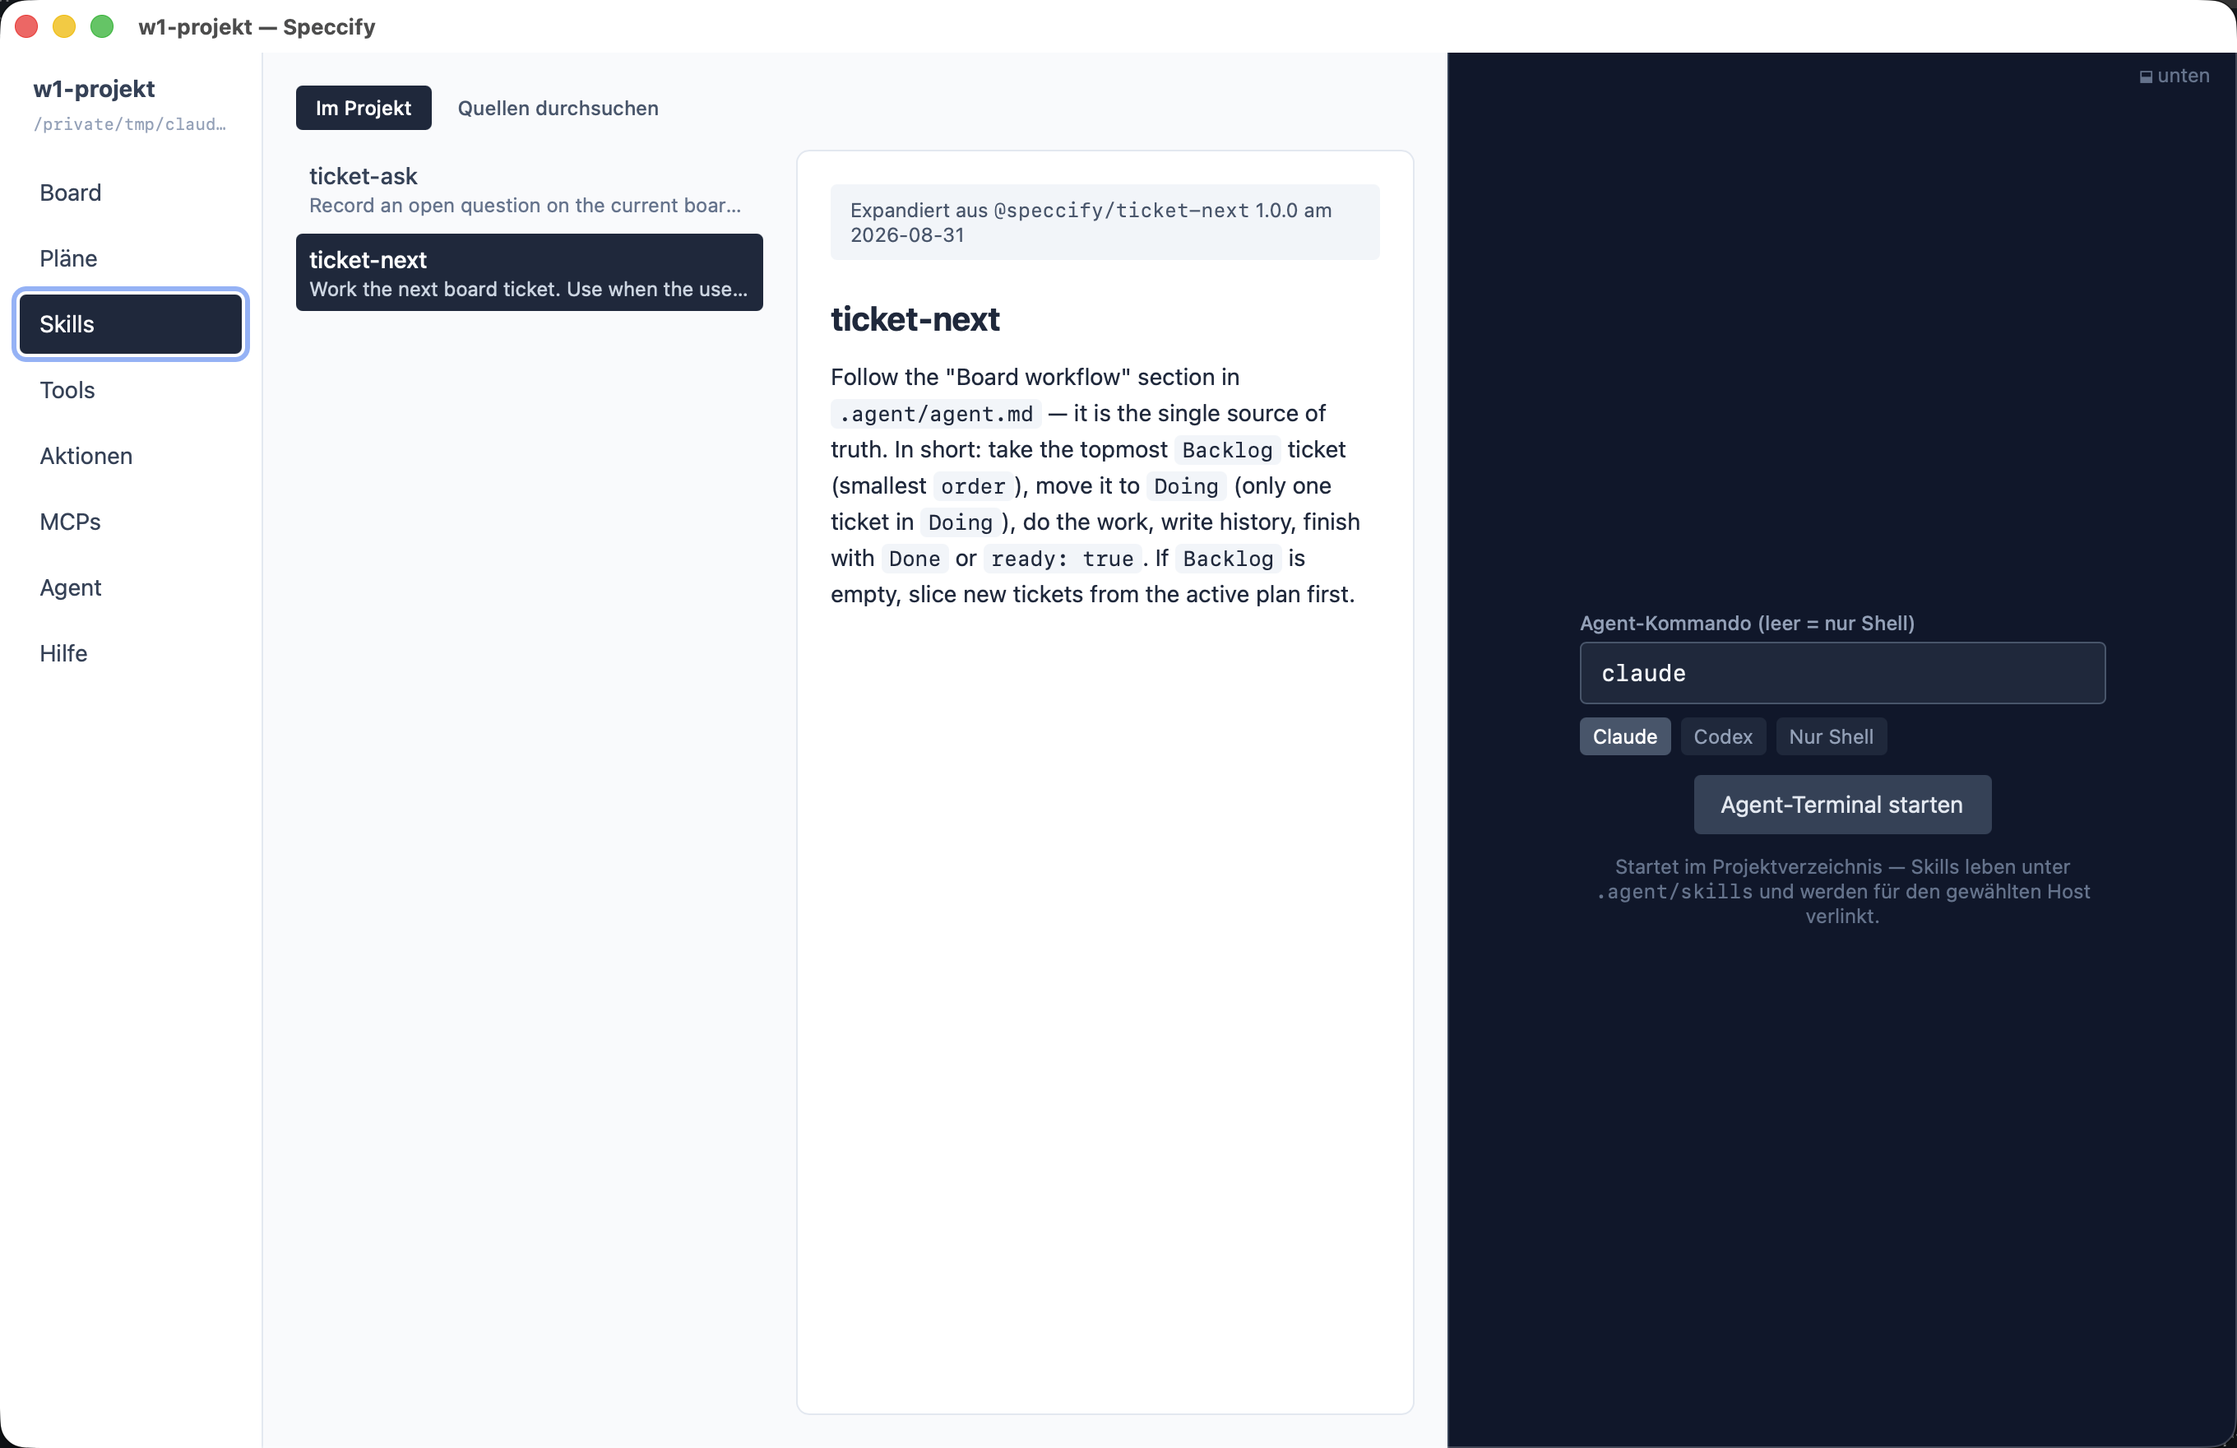
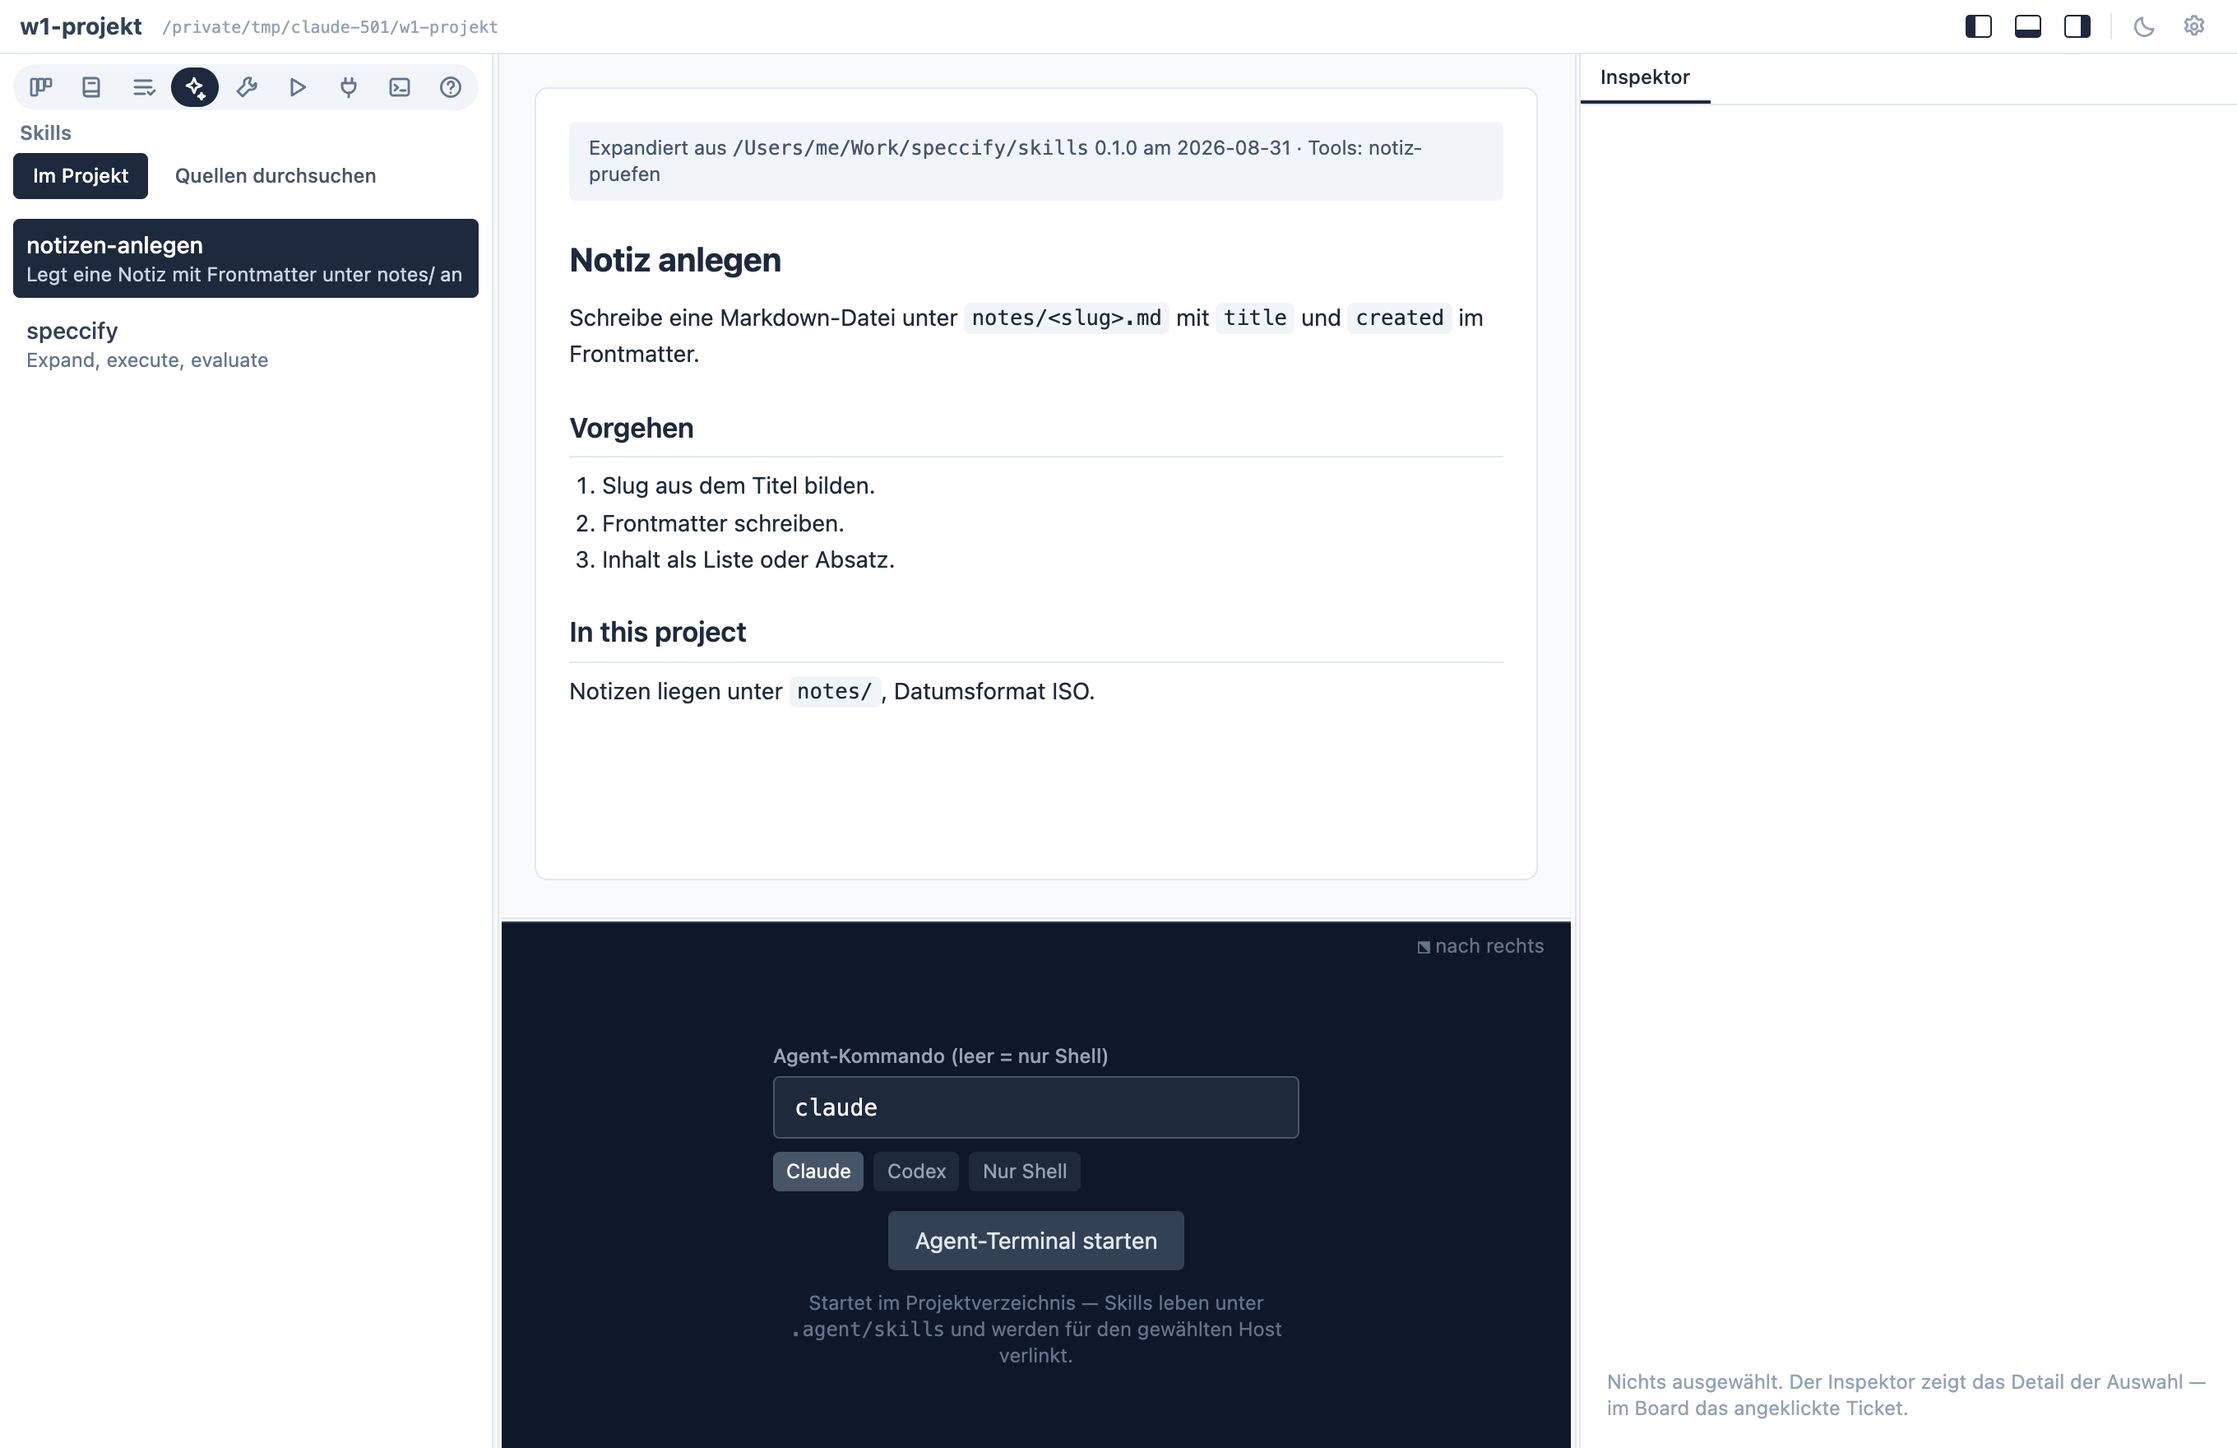
chore(release): version 0.4.0 — website-screenshots im neuen layout
- Version 0.4.0 (package.json, tauri.conf.json, Cargo.toml, Cargo.lock)
- Die fünf App-Screenshots der Website neu aufgenommen: Navigator mit
  Icon-Tabs, Board mit Ticket im Inspektor, offene Frage im Inspektor,
  Inspektor-Ausschnitt, Skills, Aktionen — aus dev/mock.html mit dem
  nachgebauten W1-Fixture per Playwright (1360×880 @2x wie bisher)
- Bildunterschriften der Overview (EN/DE) und der Dashboard-Text
  „Projekt öffnen" beschreiben das neue Layout

Verifikation: typecheck grün; cargo check ok; Marketing-Build 86 Seiten.

Claude-Session: https://claude.ai/code/session_01DxajptpLM2N9ChsPNwWVBX

diff --git a/apps/desktop/dev/mock.html b/apps/desktop/dev/mock.html
@@ -4,65 +4,117 @@
     <meta charset="UTF-8" />
     <title>Speccify — Layout-Attrappe</title>
     <script>
-      // Attrappe der Tauri-Brücke für eine Layout-Prüfung im Browser
-      // (nicht Teil des Produkts; wird nach der Prüfung gelöscht).
-      const project = "/Users/me/Projekte/demo";
+      // Attrappe der Tauri-Brücke für Layout-Prüfungen und Website-
+      // Screenshots im Browser (Playwright gegen den Vite-Dev-Server,
+      // http://localhost:1420/dev/mock.html). Kein Produktbestandteil.
+      // Die Daten spiegeln das W1-Fixture-Projekt der E2E-Läufe.
+      const project = "/private/tmp/claude-501/w1-projekt";
       const base = {
-        file: ".agent/board/site-scaffold.md",
-        id: "site-scaffold",
-        title: "Scaffold the site",
-        station: "Doing",
         assignee: null,
-        created: "2026-08-26T08:25:00Z",
+        created: "2026-08-31T09:00:00Z",
         ready: false,
         needs_human: false,
-        order: 1,
-        plan: "projektfenster",
+        order: null,
+        plan: "aufraeumen",
         open_question: null,
-        body: "## Scope\nSmall enough for one agent run.\n\n## Acceptance criteria\nDone when the site builds.",
       };
       const tickets = [
-        base,
-        { ...base, file: ".agent/board/second.md", id: "second", title: "Second ticket", station: "Backlog", order: 2, open_question: "Q1" },
-        { ...base, file: ".agent/board/done-1.md", id: "done-1", title: "Done thing", station: "Done" },
+        {
+          ...base,
+          file: ".agent/board/notizen-zahlen.md",
+          id: "notizen-zahlen",
+          title: "notes/zahlen.md mit Quadratzahlen 1–5 anlegen",
+          station: "Doing",
+          order: 1,
+          body: "## Scope\nEine Notiz `notes/zahlen.md` mit den Quadratzahlen 1–5 als Liste.\n\n## Akzeptanz\nDatei existiert, fünf Zeilen, Zahlen stimmen.",
+        },
+        {
+          ...base,
+          file: ".agent/board/live-test.md",
+          id: "live-test",
+          title: "Live-Reload Beweisticket",
+          station: "Doing",
+          order: 2,
+          open_question: "Q1",
+          body: "Vom Watcher entdeckt, nicht von einem Klick.",
+        },
+        {
+          ...base,
+          file: ".agent/board/notizen-ordner.md",
+          id: "notizen-ordner",
+          title: "Ordner notes/ anlegen",
+          station: "Done",
+          plan: "notizen",
+          body: "Erledigt.",
+        },
       ];
+      const questions = {
+        ".agent/board/live-test.md": [
+          {
+            number: 1,
+            open: true,
+            asked_at: "2026-08-31T11:40:00Z",
+            text: "Soll der Beweis-Text auf Deutsch oder Englisch erscheinen?",
+            answer: null,
+            answered_at: null,
+          },
+        ],
+      };
+      const history = {
+        ".agent/board/notizen-zahlen.md": [
+          { timestamp: "2026-08-31T11:52:10Z", ticket_id: "notizen-zahlen", event_type: "agent_run", actor: "agent", summary: "Skill notizen-anlegen ausgeführt", tokens_in: 30000, tokens_out: 1500 },
+          { timestamp: "2026-08-31T11:50:02Z", ticket_id: "notizen-zahlen", event_type: "station_changed", actor: "agent", summary: "Backlog -> In Progress" },
+          { timestamp: "2026-08-31T11:49:30Z", ticket_id: "notizen-zahlen", event_type: "ticket_created", actor: "agent", summary: "aus Plan aufraeumen geschnitten" },
+        ],
+        ".agent/board/live-test.md": [
+          { timestamp: "2026-08-31T11:52:00Z", ticket_id: "live-test", event_type: "ticket_edited", actor: "user", summary: "Im Editor gespeichert" },
+        ],
+      };
+      const files = {
+        ".agent/plans/aufraeumen.md": "---\nlifecycle: active\nstatus: läuft — Tickets geschnitten\n---\n# Plan: Aufräumen\n\nNotizen sortieren und Altes löschen.\n\n## Schritte\n\n1. `notes/` anlegen\n2. Zahlen-Notiz schreiben\n3. Alte Entwürfe löschen\n",
+        ".agent/plans/archive/notizen.md": "---\nlifecycle: done\n---\n# Notizen\n\nErster Durchlauf.\n",
+        ".agent/playbooks/release.md": "---\ndescription: Vom Tag zum veröffentlichten Release\n---\n# Release\n\n1. Version anheben, committen.\n2. Tag pushen — der Release-Workflow baut beide Plattformen.\n3. Entwurf prüfen, veröffentlichen.\n",
+        ".agent/skills/notizen-anlegen/SKILL.md": "---\nname: notizen-anlegen\ndescription: Legt eine Notiz mit Frontmatter unter notes/ an\n---\n# Notiz anlegen\n\nSchreibe eine Markdown-Datei unter `notes/<slug>.md` mit `title` und `created` im Frontmatter.\n\n## Vorgehen\n\n1. Slug aus dem Titel bilden.\n2. Frontmatter schreiben.\n3. Inhalt als Liste oder Absatz.\n\n## In this project\n\nNotizen liegen unter `notes/`, Datumsformat ISO.\n",
+        ".agent/skills/speccify/SKILL.md": "---\nname: speccify\n---\n# Speccify\n\nExpand → Execute → Evaluate.\n",
+        ".agent/tools/notiz-pruefen/TOOL.md": "---\nname: notiz-pruefen\n---\n# notiz-pruefen\n\nPrüft eine Notiz auf gültiges Frontmatter.\n\n## Inputs\n\n`path` (string)\n\n## Outputs\n\n`ok` (boolean)\n",
+        "CLAUDE.md": "# Speccify agent guidance\n\n@.agent/agent.md\n",
+        ".agent/agent.md": "# w1-projekt\n\nSprache Deutsch. Board-Workflow nach Speccify.\n",
+      };
       const responses = {
         project_current: () => project,
         project_watch_start: () => null,
         project_watch_stop: () => null,
         project_workflow_status: () => ({ state: "current", installed_version: 1, current_version: 1, pending: [] }),
         project_board: () => tickets,
-        project_board_kpis: () => ({ run_count: 3, tokens_in: 12000, tokens_out: 3000, duration_ms: 120000, recent: [] }),
-        project_ticket_history: () => [
-          { timestamp: "2026-09-03T09:05:30Z", ticket_id: "site-scaffold", event_type: "station_changed", actor: "agent", summary: "Backlog -> In Progress" },
-          { timestamp: "2026-09-03T08:55:00Z", ticket_id: "site-scaffold", event_type: "ticket_created", actor: "agent", summary: "angelegt" },
-        ],
-        project_ticket_questions: () => [],
+        project_board_kpis: () => ({ run_count: 1, tokens_in: 30000, tokens_out: 1500, duration_ms: 120000, recent: [] }),
+        project_ticket_history: ({ file }) => history[file] ?? [],
+        project_ticket_questions: ({ file }) => questions[file] ?? [],
+        project_ticket_answer: () => null,
         project_plans: () => [
-          { file: ".agent/plans/projektfenster.md", title: "Projektfenster", lifecycle: "active", status: "Bauen", escalation: null, archived: false },
+          { file: ".agent/plans/aufraeumen.md", title: "Plan: Aufräumen", lifecycle: "active", status: "läuft — Tickets geschnitten", escalation: null, archived: false },
+          { file: ".agent/plans/archive/notizen.md", title: "Notizen", lifecycle: "done", status: null, escalation: null, archived: true },
         ],
-        project_read_file: () => "---\nlifecycle: active\nstatus: Bauen\n---\n# Projektfenster\n\nEin Plan.\n",
+        project_read_file: ({ file }) => files[file] ?? `# ${file}\n\n(leer)\n`,
         project_playbooks: () => [
           { file: ".agent/playbooks/release.md", title: "Release", description: "Vom Tag zum veröffentlichten Release" },
-          { file: ".agent/playbooks/deploy.md", title: "Deploy", description: null },
         ],
         project_skills: () => [
-          { name: "speccify", file: ".agent/skills/speccify/SKILL.md", description: "Expand, execute, evaluate", origin: { source: "github.com/x/skills", version: "0.2.0", expanded: "2026-09-01", tools: [] } },
-          { name: "release-notes", file: ".agent/skills/release-notes/SKILL.md", description: null, origin: null },
+          { name: "notizen-anlegen", file: ".agent/skills/notizen-anlegen/SKILL.md", description: "Legt eine Notiz mit Frontmatter unter notes/ an", origin: { source: "/Users/me/Work/speccify/skills", version: "0.1.0", expanded: "2026-08-31", tools: ["notiz-pruefen"] } },
+          { name: "speccify", file: ".agent/skills/speccify/SKILL.md", description: "Expand, execute, evaluate", origin: { source: "/Users/me/Work/speccify/skills", version: "0.2.0", expanded: "2026-08-31", tools: [] } },
         ],
         project_tools: () => [
-          { name: "notarize", file: ".agent/tools/notarize/TOOL.md", description: "Notarize a dmg", from: ["speccify"], platforms: [{ name: "macos", status: "verified", checked: "2026-09-01" }, { name: "windows", status: null, checked: null }], files: ["macos.sh"] },
+          { name: "notiz-pruefen", file: ".agent/tools/notiz-pruefen/TOOL.md", description: "Prüft eine Notiz auf gültiges Frontmatter", from: ["notizen-anlegen"], platforms: [{ name: "macos", status: "verified", checked: "2026-08-31" }, { name: "windows", status: null, checked: null }], files: ["macos.sh"] },
         ],
         project_actions: () => ({
           actions: [
-            { name: "Tests", command: "uv run pytest", description: "Python-Tests", source: "actions.json", confirmed: true, target: "local" },
-            { name: "Typecheck", command: "pnpm typecheck", description: null, source: "actions.json", confirmed: true, target: "local" },
-            { name: "Lint", command: "uv run ruff check .", description: null, source: "agent", confirmed: false, target: "local" },
+            { name: "Notizen zählen", command: "ls notes", description: "Wie viele Notizen liegen da?", source: "actions.json", confirmed: true, target: "local" },
+            { name: "Tests", command: "uv run pytest", description: null, source: "actions.json", confirmed: true, target: "local" },
+            { name: "Notizen auflisten", command: "ls -la notes", description: null, source: "agent", confirmed: false, target: "local" },
           ],
           pending: [],
         }),
         project_agent_files: () => ["CLAUDE.md", ".agent/agent.md"],
-        project_skill_sources: () => ({ default: null, sources: [] }),
+        project_skill_sources: () => ({ default: "/Users/me/Work/speccify/skills", sources: [] }),
         project_platform: () => "macos",
         project_mcps: () => ({ claude_servers: {}, codex_servers: null, claude_allow: [], claude_allow_local: [] }),
         help_docs: () => [
@@ -70,12 +122,12 @@
           { slug: "toolkit", title: "Toolkit", description: "Werkzeuge", source_path: "docs/toolkit.md" },
         ],
         help_doc: () => "# Die App bedienen\n\nText.\n",
+        get_settings: () => ({ working_dir: null, terminal_autostart_command: "claude", skill_library: null, theme: "light" }),
+        save_settings: () => null,
         terminal_open: () => project,
         terminal_write: () => null,
         terminal_resize: () => null,
         terminal_kill: () => null,
-        get_settings: () => ({ working_dir: null, terminal_autostart_command: "claude", skill_library: null, theme: "system" }),
-        save_settings: () => null,
         "plugin:event|emit": () => null,
         "plugin:event|listen": () => 1,
         "plugin:event|unlisten": () => null,
@@ -96,7 +148,7 @@
           const fn = responses[cmd];
           console.log("[mock invoke]", cmd);
           if (!fn) return Promise.reject(`mock: unbekanntes Kommando ${cmd}`);
-          return Promise.resolve(fn(args));
+          return Promise.resolve(fn(args ?? {}));
         },
       };
     </script>

diff --git a/apps/desktop/src/views/ProjectsView.tsx b/apps/desktop/src/views/ProjectsView.tsx
@@ -24,8 +24,9 @@ export default function ProjectsView() {
   return (
     <div className="max-w-xl space-y-4">
       <p className="text-sm text-slate-600">
-        Öffnet ein Projekt in einem eigenen Fenster: links Pläne, Skills, Tools
-        und MCPs des Projekts, rechts ein Agent-Terminal im Projektverzeichnis.
+        Öffnet ein Projekt in einem eigenen Fenster: links Board, Pläne, Skills
+        und Tools des Projekts, rechts der Inspektor, unten ein Agent-Terminal im
+        Projektverzeichnis.
       </p>
       <div>
         <label

diff --git a/.agent/plans/projektfenster.md b/.agent/plans/projektfenster.md
@@ -693,7 +693,13 @@ zurücksetzen). `components/Toolbar.tsx` mit drei Zonen — Mitte nimmt
 Knöpfe (Aktionen mit `toolbar: true`) und ein Aktivitäts-Fenster.
 Navigator-Default 300 px. Layout-Persistenz: localStorage der App
 (WebKit-/WebView2-Datenspeicher, überlebt Neustarts; Dev- und
-Release-Build haben getrennte Speicher). **Offen (W7d):** Metadaten und
+Release-Build haben getrennte Speicher). **Release v0.4.0 (2026-09-04,
+BO-Auftrag):** Version 0.4.0 in package.json/tauri.conf.json/Cargo.toml
+(Cargo.lock zog `tauri dev` selbst nach), die fünf Website-Screenshots
+neu im W7-Layout — aus `dev/mock.html` mit nachgebautem W1-Fixture per
+Playwright (1360×880 @2x, wie die alten Fensteraufnahmen), Tag gepusht →
+release.yml baut den v0.4.0-Draft, pages.yml deployt die Site. **Offen
+(W7d):** Metadaten und
 Aktionen von Plänen/Playbooks in den Inspektor; Toolbar-Knöpfe aus
 actions.json; Aktivitäts-Fenster; Tastaturkürzel; Prüfung in der echten
 App auf macOS und Windows durch den BO.

diff --git a/apps/marketing/src/content/docs/app/overview.md b/apps/marketing/src/content/docs/app/overview.md
@@ -13,7 +13,7 @@ skills and tools, the project actions. Nothing lives only in the
 app — every ticket, plan, and setting is a plain file under
 `.agent/`, committed with your code.
 
-![A project window: board with the active plan above it, agent terminal on the right](../../../assets/app/overview.png)
+![A project window: navigator with icon tabs on the left, board with the active plan above it, the selected ticket in the inspector on the right, agent terminal at the bottom](../../../assets/app/overview.png)
 
 ## The division of labor
 

diff --git a/apps/marketing/src/content/docs/de/app/overview.md b/apps/marketing/src/content/docs/de/app/overview.md
@@ -13,7 +13,7 @@ die Skills und Tools, die Projekt-Aktionen. Nichts lebt nur in der
 App — jedes Ticket, jeder Plan, jede Einstellung ist eine einfache
 Datei unter `.agent/`, committet mit deinem Code.
 
-![Ein Projektfenster: Board mit aktivem Plan darüber, Agent-Terminal rechts](../../../../assets/app/overview.png)
+![Ein Projektfenster: Navigator mit Icon-Tabs links, Board mit aktivem Plan darüber, das gewählte Ticket im Inspektor rechts, Agent-Terminal unten](../../../../assets/app/overview.png)
 
 ## Die Arbeitsteilung
 
